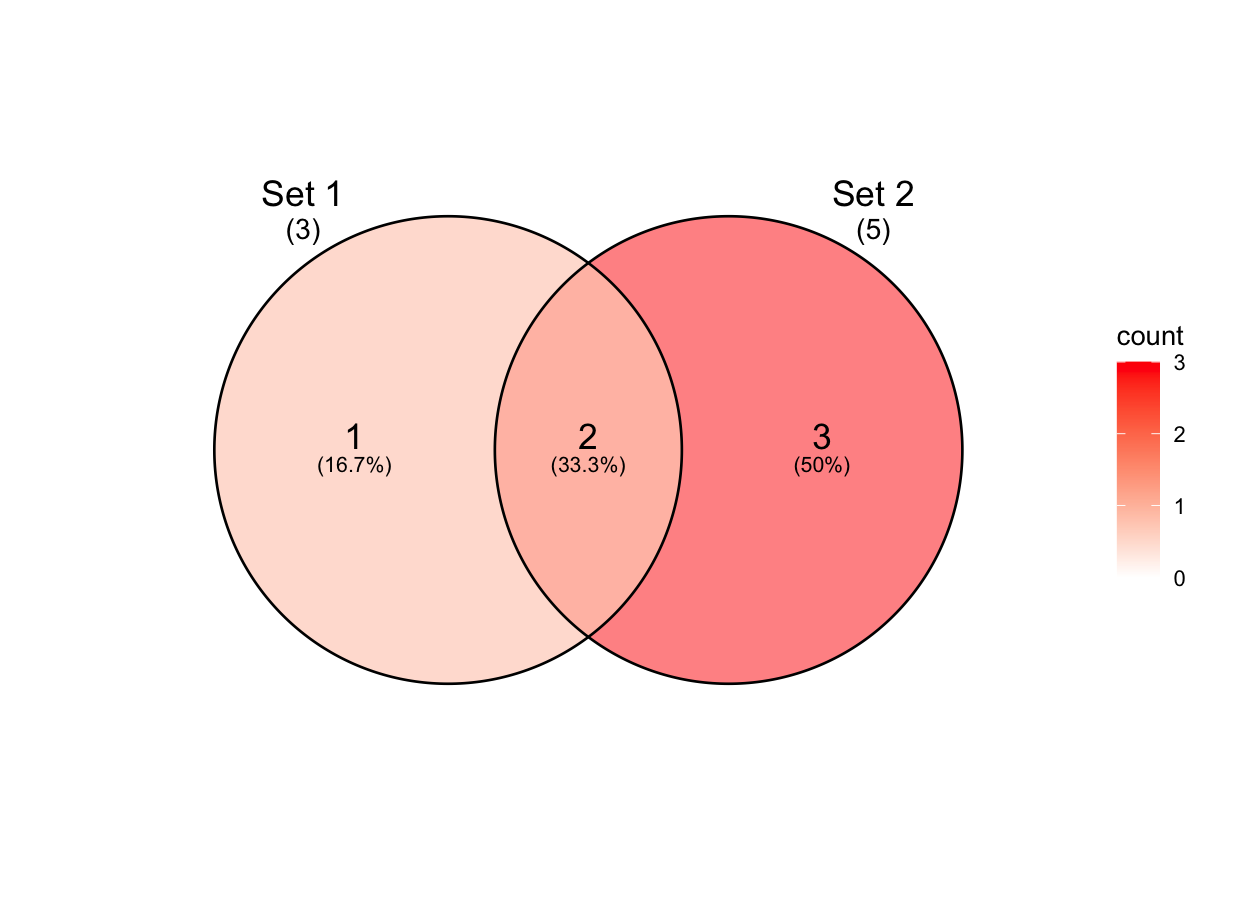
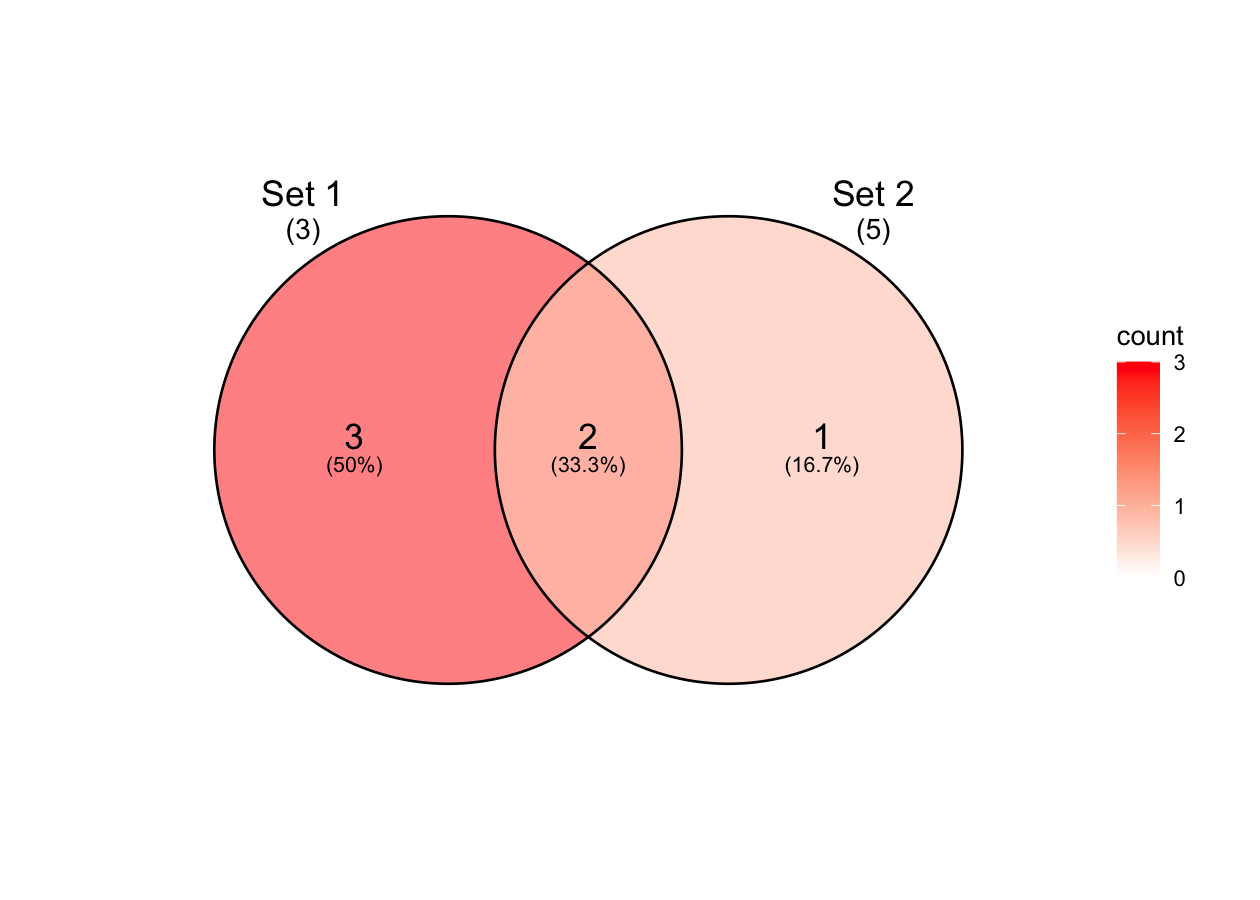
Fix bug in count_venn()
But reintroduces set_name order bug woops...

Changed region(s): [[0.1548, 0.2178, 0.7738, 0.7778]]

diff --git a/README.md b/README.md
@@ -90,3 +90,28 @@ ggplot() +
 ```
 
 <img src="figs/discrete-venn4-1.png" width="50%" /><img src="figs/discrete-venn4-2.png" width="50%" />
+
+``` r
+# 4 way Venn
+ls4_2 <- list("ZZZ" = c(1:100),
+              "AAA" = c(2),
+              "YYY" = c(1:100),
+              "BBB" = c(1:100))
+venn4_2 <- prepare_venn(ls4_2, fill = c("blue", "yellow", "green", "red"))
+
+# discrete
+ggplot() +
+  geom_venn(aes(set_name = set_name, elements = elements, fill = fill),
+            data = venn4_2, type = "discrete", set_total = TRUE) +
+  scale_fill_identity() + 
+  theme_void()
+
+# continuous
+ggplot() +
+  geom_venn(aes(set_name = set_name, elements = elements, fill = count),
+            data = venn4_2, type = "continuous", set_total = TRUE) +
+  scale_fill_gradient(low = "white", high = "red") + 
+  theme_void()
+```
+
+<img src="figs/discrete-venn5-1.png" width="50%" /><img src="figs/discrete-venn5-2.png" width="50%" />
